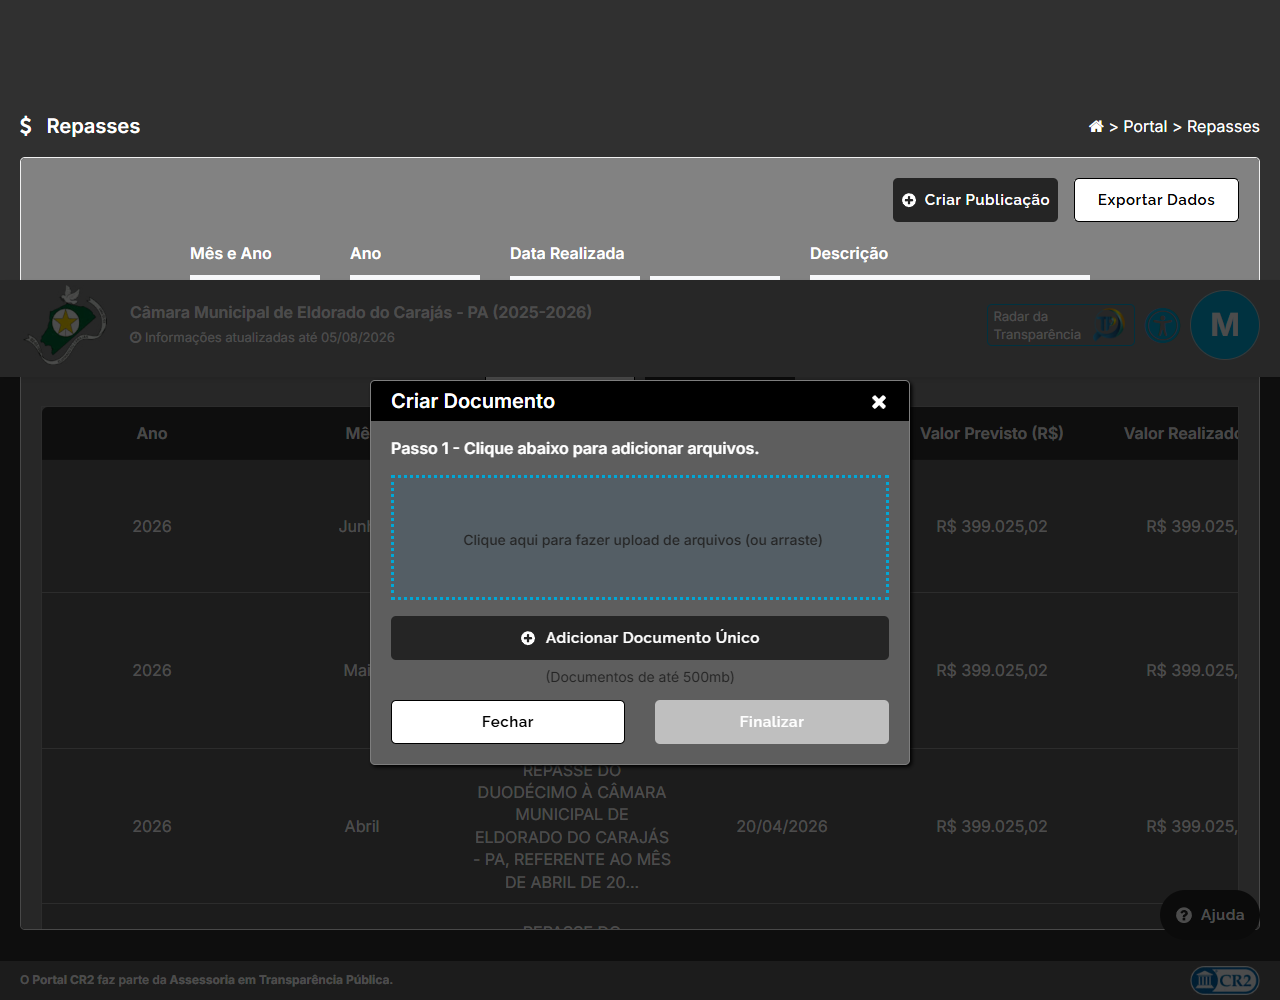
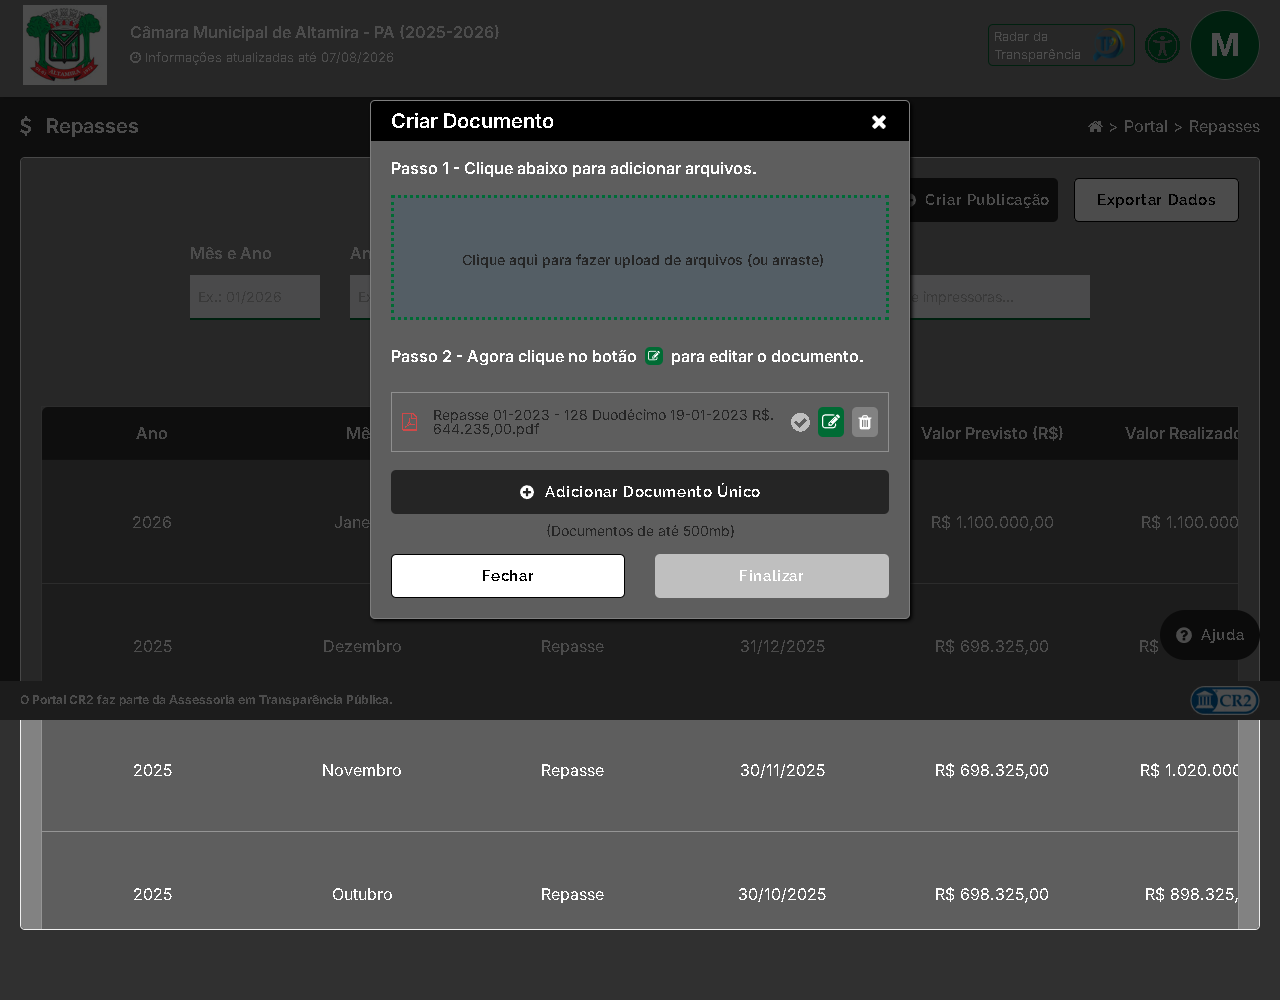
Verson mds

diff --git a/automacoes/publicacao-repasses/script.py b/automacoes/publicacao-repasses/script.py
@@ -1435,7 +1435,11 @@ def upload_em_criar_documento(page, caminho) -> Path:
 
 
 def _clicar_lapis_editar_arquivo(page, path: Path) -> None:
-    """Clica no botao azul (lapis) na linha do PDF — Passo 2."""
+    """Clica no botao verde (lapis) na linha do PDF — Passo 2.
+
+    No portal atual o botao Editar e verde/teal (nao azul). Sem isso o Finalizar
+    fica cinza/desabilitado.
+    """
     stem = path.stem
     trecho = stem[:36]
     _aguardar_modal_texto(page, r"Passo\s*2", 20)
@@ -1447,10 +1451,15 @@ def _clicar_lapis_editar_arquivo(page, path: Path) -> None:
         pass
     time.sleep(0.4)
 
-    def _achar_box_lapis():
+    def _marcar_e_obter_via():
+        """Marca o botao certo com data-cr2-lapis e devolve a estrategia usada."""
         return page.evaluate(
             r"""
             (trecho) => {
+                document.querySelectorAll('[data-cr2-lapis]').forEach(el => {
+                    el.removeAttribute('data-cr2-lapis');
+                });
+
                 function visivel(el) {
                     if (!el) return false;
                     const s = window.getComputedStyle(el);
@@ -1459,25 +1468,41 @@ def _clicar_lapis_editar_arquivo(page, path: Path) -> None:
                     const r = el.getBoundingClientRect();
                     return r.width > 8 && r.height > 8;
                 }
-                function azul(el) {
+                function rgb(el) {
                     const s = window.getComputedStyle(el);
                     const bg = s.backgroundColor || '';
                     const m = bg.match(/rgba?\((\d+),\s*(\d+),\s*(\d+)/);
-                    if (!m) return false;
-                    const r = +m[1], g = +m[2], b = +m[3];
-                    return b >= 140 && b > r + 20 && b > g + 20;
+                    if (!m) return null;
+                    return { r: +m[1], g: +m[2], b: +m[3] };
+                }
+                // Verde / teal do botao Editar (UI atual). Aceita azul legado.
+                function corEditar(el) {
+                    const c = rgb(el);
+                    if (!c) return false;
+                    const { r, g, b } = c;
+                    const verdeTeal = g >= 120 && g > r + 15 && g >= b - 10;
+                    const azulLegado = b >= 140 && b > r + 20 && b > g + 20;
+                    return verdeTeal || azulLegado;
                 }
                 function icone(el) {
                     const r = el.getBoundingClientRect();
-                    return r.width >= 22 && r.width <= 64 && r.height >= 22 && r.height <= 64;
+                    return r.width >= 18 && r.width <= 72 && r.height >= 18 && r.height <= 72;
                 }
+                function clicavel(el) {
+                    if (!el) return null;
+                    return el.closest(
+                        '.clickable-element, button, [role=button], a'
+                    ) || el;
+                }
+
                 const nodes = Array.from(document.querySelectorAll('div, span, p, a'));
                 let alvoTxt = null;
                 for (const el of nodes) {
                     const t = (el.innerText || '').replace(/\s+/g, ' ').trim();
-                    if (!t || t.length > 180) continue;
+                    if (!t || t.length > 220) continue;
                     if (t.indexOf(trecho) >= 0 && visivel(el)
-                        && t.indexOf('Passo') < 0 && t.toLowerCase().indexOf('clique') < 0) {
+                        && t.indexOf('Passo') < 0
+                        && t.toLowerCase().indexOf('clique') < 0) {
                         alvoTxt = el;
                         break;
                     }
@@ -1486,7 +1511,7 @@ def _clicar_lapis_editar_arquivo(page, path: Path) -> None:
                     const curto = (trecho.split(' - ')[0] || trecho.slice(0, 18));
                     for (const el of nodes) {
                         const t = (el.innerText || '').replace(/\s+/g, ' ').trim();
-                        if (!t || t.length > 180) continue;
+                        if (!t || t.length > 220) continue;
                         if (t.indexOf(curto) >= 0 && /\.pdf/i.test(t) && visivel(el)) {
                             alvoTxt = el;
                             break;
@@ -1496,22 +1521,42 @@ def _clicar_lapis_editar_arquivo(page, path: Path) -> None:
                 if (!alvoTxt) return null;
 
                 let row = alvoTxt;
-                for (let up = 0; up < 12 && row; up++) {
-                    const kids = Array.from(row.querySelectorAll('div, button, a, span'))
-                        .filter(el => visivel(el) && icone(el));
-                    const blue = kids.find(azul);
-                    if (blue) {
-                        const r = blue.getBoundingClientRect();
-                        return { x: r.x, y: r.y, w: r.width, h: r.height, via: 'blue' };
+                for (let up = 0; up < 14 && row; up++) {
+                    const kids = Array.from(
+                        row.querySelectorAll('div, button, a, span, i')
+                    ).filter(el => visivel(el) && icone(el));
+
+                    // 1) Preferir botao verde/teal (lapis Editar)
+                    const green = kids.find(corEditar);
+                    if (green) {
+                        const alvo = clicavel(green);
+                        alvo.setAttribute('data-cr2-lapis', '1');
+                        return { via: 'green' };
                     }
+
+                    // 2) Tres icones na linha: check | editar | lixeira → o do meio
                     if (kids.length >= 3) {
-                        kids.sort((a, b) => a.getBoundingClientRect().x - b.getBoundingClientRect().x);
+                        kids.sort((a, b) =>
+                            a.getBoundingClientRect().x - b.getBoundingClientRect().x
+                        );
+                        // Preferir o que tiver fundo colorido entre os 3 primeiros
                         let best = kids[1];
                         for (const k of kids.slice(0, 3)) {
-                            if (azul(k)) { best = k; break; }
+                            if (corEditar(k)) { best = k; break; }
                         }
-                        const rb = best.getBoundingClientRect();
-                        return { x: rb.x, y: rb.y, w: rb.width, h: rb.height, via: 'middle' };
+                        // Se o do meio for cinza e o 2o da direita for colorido…
+                        const mid = kids[1];
+                        const cMid = rgb(mid);
+                        const cinza = cMid && Math.abs(cMid.r - cMid.g) < 12
+                            && Math.abs(cMid.g - cMid.b) < 12;
+                        if (cinza) {
+                            for (const k of kids.slice(0, 4)) {
+                                if (corEditar(k)) { best = k; break; }
+                            }
+                        }
+                        const alvo = clicavel(best);
+                        alvo.setAttribute('data-cr2-lapis', '1');
+                        return { via: 'middle' };
                     }
                     row = row.parentElement;
                 }
@@ -1522,26 +1567,56 @@ def _clicar_lapis_editar_arquivo(page, path: Path) -> None:
         )
 
     aberto = False
-    for tentativa in range(1, 5):
-        box = None
+    for tentativa in range(1, 6):
+        info = None
         try:
-            box = _achar_box_lapis()
+            info = _marcar_e_obter_via()
         except Exception:
-            box = None
-        if not box:
+            info = None
+        if not info:
             time.sleep(0.35)
             continue
+
+        clicou = False
+        # Clique no elemento marcado (mais confiavel que coordenada no Bubble)
         try:
-            page.mouse.click(box["x"] + box["w"] / 2, box["y"] + box["h"] / 2)
-            print(
-                "    Clicou no lapis (via={0}, tentativa {1}).".format(
-                    box.get("via"), tentativa
-                )
-            )
+            loc = page.locator("[data-cr2-lapis='1']").first
+            loc.wait_for(state="visible", timeout=2500)
+            loc.click(timeout=5000)
+            clicou = True
         except Exception:
+            try:
+                page.locator("[data-cr2-lapis='1']").first.click(
+                    force=True, timeout=4000
+                )
+                clicou = True
+            except Exception:
+                try:
+                    page.evaluate(
+                        """
+                        () => {
+                            const el = document.querySelector('[data-cr2-lapis="1"]');
+                            if (!el) return false;
+                            el.click();
+                            return true;
+                        }
+                        """
+                    )
+                    clicou = True
+                except Exception:
+                    clicou = False
+
+        if not clicou:
+            time.sleep(0.3)
             continue
-        time.sleep(0.5)
-        if _aguardar_modal_texto(page, r"Editar\s+Documento", 5) is not None:
+
+        print(
+            "    Clicou no lapis (via={0}, tentativa {1}).".format(
+                info.get("via"), tentativa
+            )
+        )
+        time.sleep(0.55)
+        if _aguardar_modal_texto(page, r"Editar\s+Documento", 6) is not None:
             aberto = True
             break
         time.sleep(0.35)
@@ -1554,23 +1629,30 @@ def _clicar_lapis_editar_arquivo(page, path: Path) -> None:
                 .filter(has_text=re.compile(r"\.pdf", re.I))
                 .last
             )
+            # Botoes da linha: tipicamente [check, editar, lixeira]
             btns = row.locator(".clickable-element, button, [role=button]")
             n = btns.count()
-            if n >= 2:
-                btns.nth(1).click(timeout=4000)
-            elif n == 1:
-                btns.first.click(timeout=4000)
-            time.sleep(0.55)
-            if _aguardar_modal_texto(page, r"Editar\s+Documento", 5) is not None:
-                aberto = True
-                print("    Clicou no lapis (fallback Playwright).")
+            # Tenta o 2o (indice 1); se nao abrir, percorre todos
+            ordem = list(range(min(n, 5)))
+            if 1 in ordem:
+                ordem = [1] + [i for i in ordem if i != 1]
+            for i in ordem:
+                try:
+                    btns.nth(i).click(timeout=3000)
+                except Exception:
+                    continue
+                time.sleep(0.55)
+                if _aguardar_modal_texto(page, r"Editar\s+Documento", 4) is not None:
+                    aberto = True
+                    print("    Clicou no lapis (fallback Playwright idx={0}).".format(i))
+                    break
         except Exception:
             pass
 
     if not aberto:
         salvar_screenshot(page, "SEM_LAPIS_EDITAR")
         raise RuntimeError(
-            "Nao abriu 'Editar Documento' apos clicar no lapis azul do PDF."
+            "Nao abriu 'Editar Documento' apos clicar no lapis verde do PDF."
         )
     time.sleep(0.25)
 

diff --git a/centro-automacoes/backend/runners/base.py b/centro-automacoes/backend/runners/base.py
@@ -125,22 +125,24 @@ SCRIPTS = {
 
 
 class _Tee(io.TextIOBase):
-    def __init__(self, original, callback):
+    def __init__(self, original, callback, *, echo: bool = True):
         self._original = original
         self._callback = callback
+        self._echo = echo
         self._buf = ""
 
     def write(self, s: str) -> int:
         if not s:
             return 0
-        try:
-            self._original.write(s)
-        except UnicodeEncodeError:
-            safe = s.encode("ascii", errors="replace").decode("ascii")
+        if self._echo:
             try:
-                self._original.write(safe)
-            except Exception:
-                pass
+                self._original.write(s)
+            except UnicodeEncodeError:
+                safe = s.encode("ascii", errors="replace").decode("ascii")
+                try:
+                    self._original.write(safe)
+                except Exception:
+                    pass
         # tqdm usa \r — trata como quebra para filtrar progresso sujo
         self._buf += s.replace("\r\n", "\n").replace("\r", "\n")
         while "\n" in self._buf:
@@ -285,6 +287,10 @@ def run_main_with_logs(job, mod: ModuleType, fn_name: str = "main") -> None:
     visto_msgs: set[str] = set()
 
     def on_line(line: str) -> None:
+        raw = (line or "").strip()
+        # Protocolo NDJSON do WorkerJob — não reprocessar (evita loop/aninhamento)
+        if raw.startswith("{") and '"op"' in raw:
+            return
         limpa = _limpar_linha_log(line, visto=visto_msgs)
         if limpa is None:
             return
@@ -310,8 +316,11 @@ def run_main_with_logs(job, mod: ModuleType, fn_name: str = "main") -> None:
         else:
             job.emit("info", limpa)
 
-    tee_out = _Tee(sys.stdout, on_line)
-    tee_err = _Tee(sys.stderr, on_line)
+    # No subprocesso, o emit já manda NDJSON em __stdout__; ecoar o print cru
+    # duplicaria linhas no pai.
+    protocol_job = type(job).__name__ == "WorkerJob"
+    tee_out = _Tee(sys.stdout, on_line, echo=not protocol_job)
+    tee_err = _Tee(sys.stderr, on_line, echo=not protocol_job)
     # Silencia UserWarning das libs enquanto o job roda (ainda filtramos no tee)
     with warnings.catch_warnings():
         warnings.simplefilter("ignore", UserWarning)

diff --git a/centro-automacoes/backend/runners/isolated.py b/centro-automacoes/backend/runners/isolated.py
@@ -73,11 +73,25 @@ def _handle_worker_line(job, line: str, visto: set[str]) -> None:
         except json.JSONDecodeError:
             payload = None
         if isinstance(payload, dict) and payload.get("op") == "log":
-            job.emit(str(payload.get("level") or "info"), str(payload.get("msg") or ""))
+            msg = str(payload.get("msg") or "")
+            # Desfaz aninhamento acidental de NDJSON no msg
+            while msg.lstrip().startswith("{") and '"op"' in msg:
+                try:
+                    inner = json.loads(msg)
+                except json.JSONDecodeError:
+                    break
+                if not isinstance(inner, dict) or inner.get("op") != "log":
+                    break
+                payload = inner
+                msg = str(inner.get("msg") or "")
+            job.emit(str(payload.get("level") or "info"), msg)
             return
         if isinstance(payload, dict) and payload.get("op") == "progress":
             _apply_progress(job, payload)
             return
+    # Linha já veio como protocolo — não tratar como texto cru
+    if raw.startswith("{") and '"op"' in raw:
+        return
     limpa = _limpar_linha_log(raw, visto=visto)
     if limpa:
         job.emit("info", limpa)

diff --git a/centro-automacoes/backend/worker_job.py b/centro-automacoes/backend/worker_job.py
@@ -3,6 +3,7 @@
 from __future__ import annotations
 
 import json
+import sys
 import time
 from pathlib import Path
 from typing import Any
@@ -79,7 +80,11 @@ class WorkerJob:
         self._emit_op({"op": "log", "level": level, "msg": str(msg)})
 
     def _emit_op(self, payload: dict[str, Any]) -> None:
-        print(json.dumps(payload, ensure_ascii=False), flush=True)
+        # Usar __stdout__: run_main_with_logs troca sys.stdout por um Tee que
+        # chama job.emit — print() normal reentraria e aninharia NDJSON até estourar.
+        stream = sys.__stdout__ or sys.stdout
+        stream.write(json.dumps(payload, ensure_ascii=False) + "\n")
+        stream.flush()
 
     def write_result(self) -> None:
         path = self.dir / "result.json"
